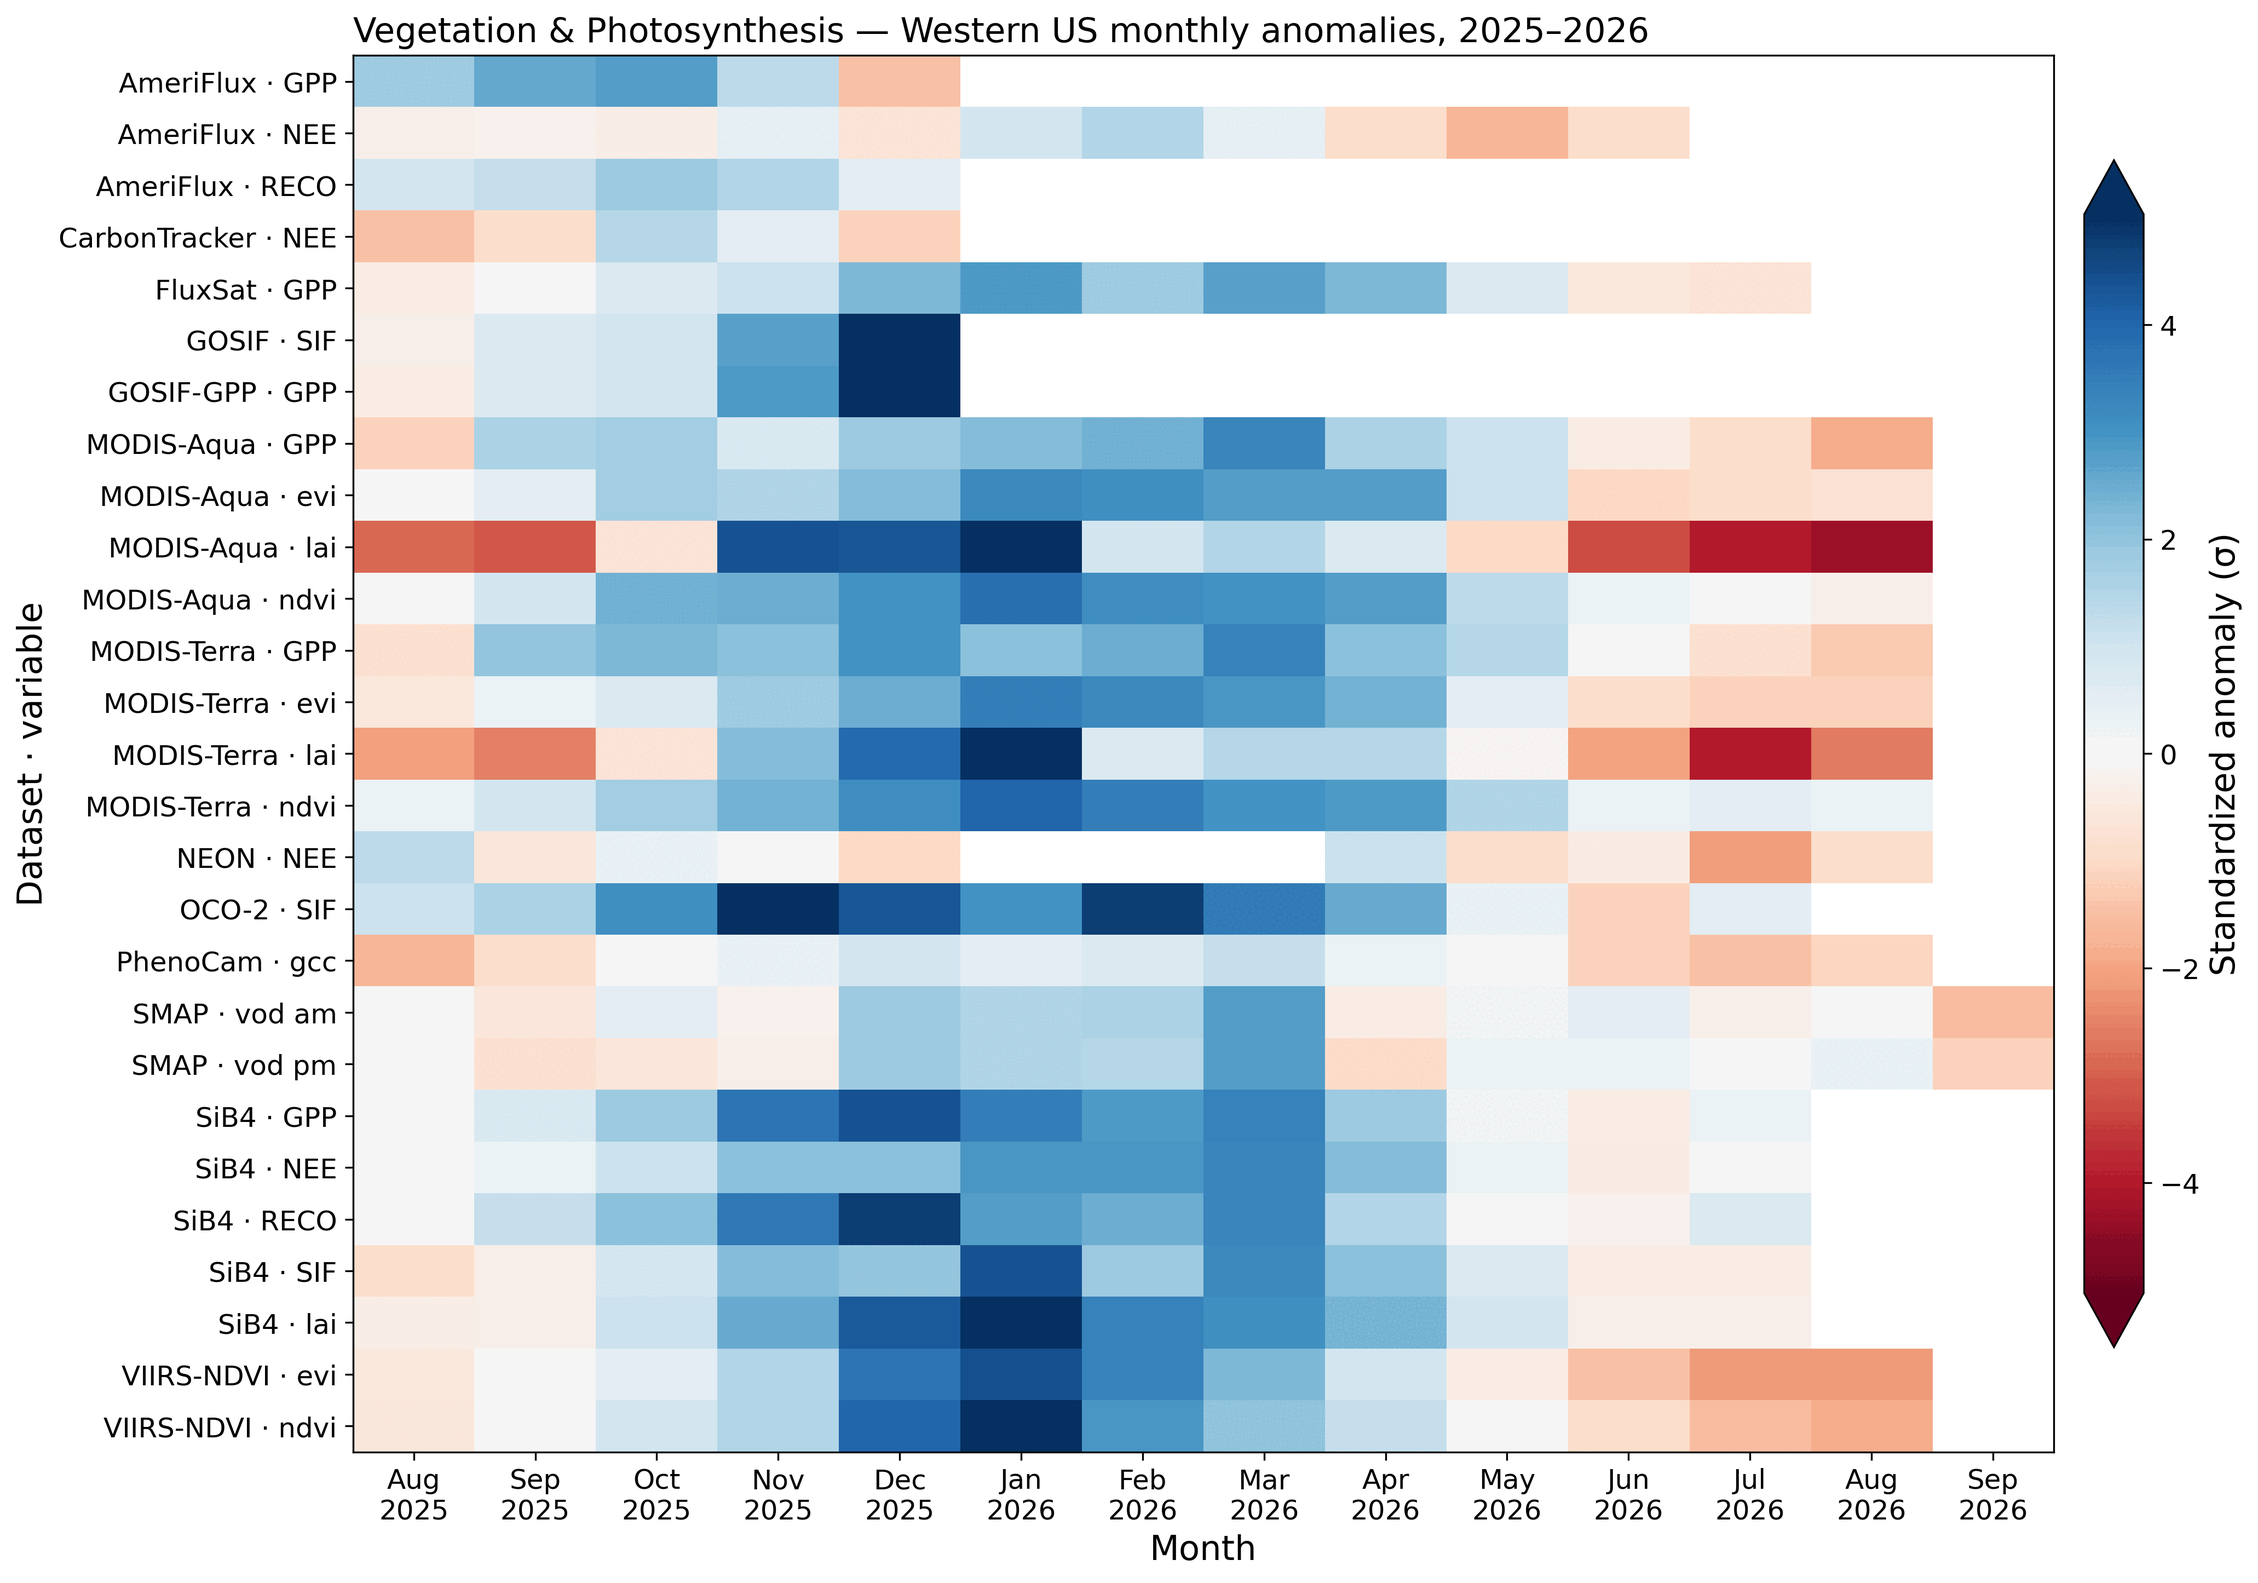
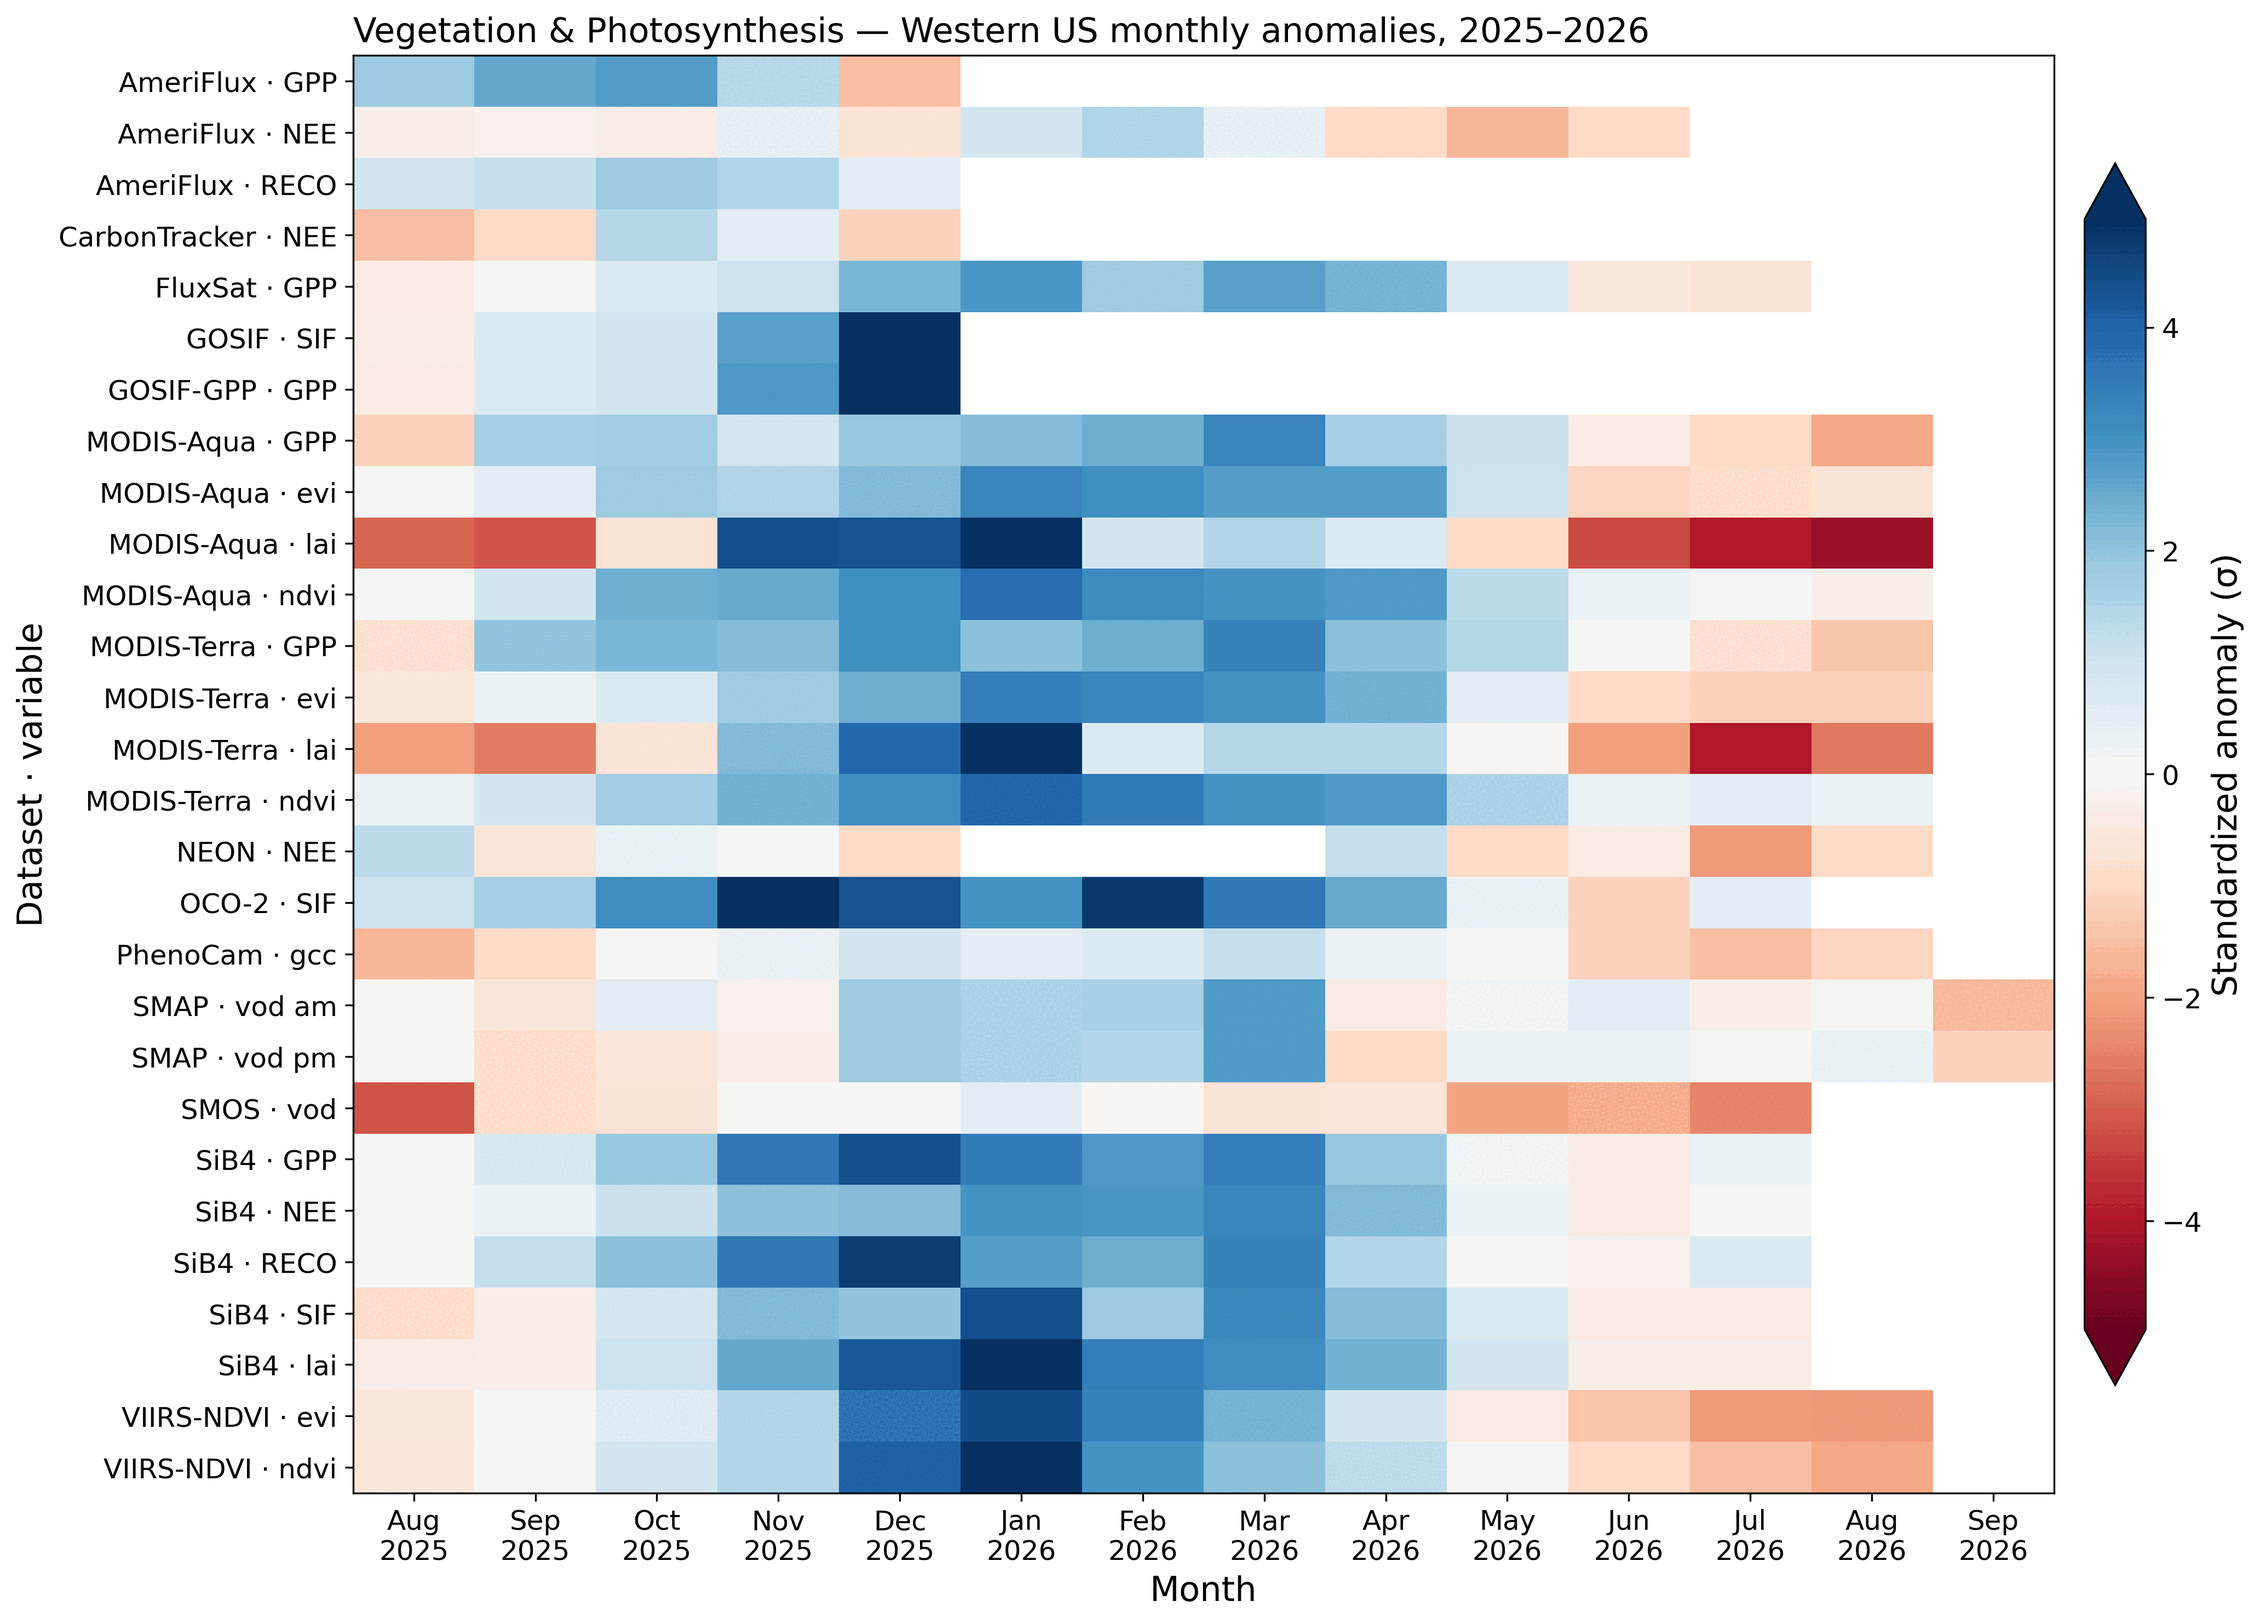
SMOS restored through summer 2026 + keep short-record products visible in heatmap
- SMOS now spans 2010-06 to 2026-07 (SM + VOD) after pointing the reducer at the consolidated MIR_SMUDP2 granule dir; sigma computes again (15-yr baseline) so SMOS returns to every view, current through summer 2026.
- Heatmap: a product with data in the window but whose sigma is entirely floored out (a <8-yr record like TROPOMI, below the reliability floor) now renders as a gray no-sigma row instead of silently vanishing; only genuinely absent products are dropped.
- Regenerate heatmap + synthesis figures.

diff --git a/js/heatmaps.js b/js/heatmaps.js
@@ -198,7 +198,7 @@ async function renderHeatmapUnsafe(chart, pairs) {
     xLabels = months.map(({ year, month }) => `${MONTH_NAMES[month - 1].slice(0, 3)}<br>${year}`);
     computeRow = (data) => {
       const region = data.regions[heatmapState.region];
-      if (!region) return months.map(() => null);
+      if (!region) return { z: months.map(() => null), hasData: false };
       // Flip sign so red always means "more stress" and blue always means
       // "less stress" on every row, regardless of each variable's own raw
       // sign convention (a positive temperature anomaly IS the stress
@@ -206,11 +206,16 @@ async function renderHeatmapUnsafe(chart, pairs) {
       // -- same drier_is_high-driven flip the Compare view's "By category"
       // mode already applies for the same reason (see about.html).
       const sign = data.drier_is_high ? 1 : -1;
-      return months.map(({ year, month }) => {
+      let hasData = false;
+      const z = months.map(({ year, month }) => {
         const dateStr = `${year}-${String(month).padStart(2, "0")}-01`;
         const idx = region.dates.indexOf(dateStr);
-        return idx === -1 ? null : sign * region.sigma[idx];
+        if (idx === -1) return null;
+        hasData = true; // the product has a value this month even if sigma is floored out
+        const s = region.sigma[idx];
+        return s === null ? null : sign * s;
       });
+      return { z, hasData };
     };
   } else {
     const windowKey = HEATMAP_FAMILIES[heatmapState.family].window;
@@ -221,13 +226,17 @@ async function renderHeatmapUnsafe(chart, pairs) {
     xLabels = years.map(String);
     computeRow = (data) => {
       const region = data.regions[heatmapState.region];
-      if (!region) return years.map(() => null);
+      if (!region) return { z: years.map(() => null), hasData: false };
       // Same stress-direction sign flip as the "monthly" branch above.
       const sign = data.drier_is_high ? 1 : -1;
-      return years.map((year) => {
+      let hasData = false;
+      const z = years.map((year) => {
         const result = computeWindowValue(data, region, windowKey, year);
-        return result ? sign * result.sigma : null;
+        if (!result) return null;
+        hasData = true; // the window has data even if its sigma is floored out
+        return result.sigma === null ? null : sign * result.sigma;
       });
+      return { z, hasData };
     };
   }
 
@@ -241,8 +250,12 @@ async function renderHeatmapUnsafe(chart, pairs) {
   // page's coverage chart for the same reason.
   [...pairs].reverse().forEach((pair, i) => {
     const data = dataList[pairs.length - 1 - i];
-    const row = computeRow(data);
-    if (row.every((v) => v === null)) return;
+    const { z: row, hasData } = computeRow(data);
+    // Keep a product that has data in the window but whose sigma is entirely
+    // floored out (e.g. a <8-year record like TROPOMI, below MIN_BASELINE_
+    // YEARS_SIGMA) -- render it as a gray no-sigma row rather than letting it
+    // silently vanish. Drop only products genuinely absent from the selection.
+    if (!hasData) return;
     yLabels.push(`${pair.product} ${pair.response}`);
     z.push(row);
     rowCategories.push(pair.category);
